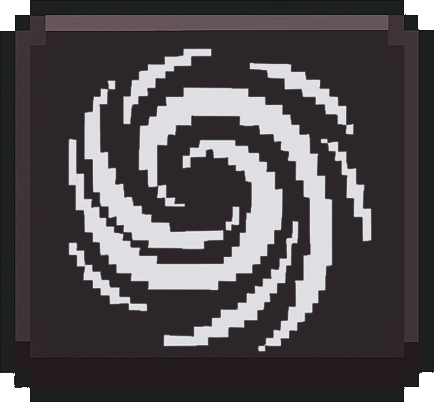
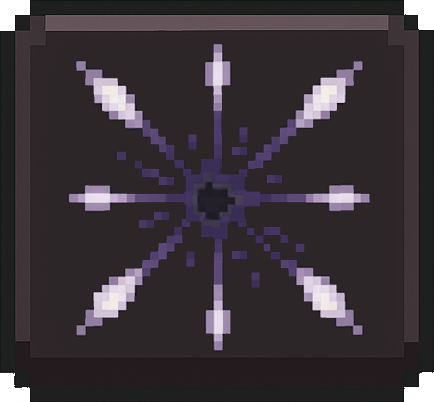
Chore: 기억 스킬 아이콘 변경, 넉백 수치 조절
기억 스킬 아이콘 변경
근접 공격 넉백 수치 조절

Changed region(s): [[0.1498, 0.0896, 0.8687, 0.8955]]

diff --git a/Assets/01.Scripts/Character/Player/Player.cs b/Assets/01.Scripts/Character/Player/Player.cs
@@ -128,16 +128,16 @@ public class Player : MonoBehaviour, IDamagable
     {
         float dt = Time.deltaTime;
 
-        float currentHP = playerstatus.stats[StatType.CurrentHP];
-        float maxHP = playerstatus.stats[StatType.MaxHP];
+        //float currentHP = playerstatus.stats[StatType.CurrentHP];
+        //float maxHP = playerstatus.stats[StatType.MaxHP];
 
         float currentMP = playerstatus.stats[StatType.CurrentMP];
         float maxMP = playerstatus.stats[StatType.MaxMP];
 
-        currentHP = Mathf.Min(currentHP + hpRegenRate * dt, maxHP);
+        //currentHP = Mathf.Min(currentHP + hpRegenRate * dt, maxHP);
         currentMP = Mathf.Min(currentMP + mpRegenRate * dt, maxMP);
 
-        playerstatus.SetStat(StatType.CurrentHP, currentHP);
+        //playerstatus.SetStat(StatType.CurrentHP, currentHP);
         playerstatus.SetStat(StatType.CurrentMP, currentMP);
     }
 }

diff --git a/Assets/01.Scripts/Weapon/Controller/ComboAttack.cs b/Assets/01.Scripts/Weapon/Controller/ComboAttack.cs
@@ -261,7 +261,7 @@ public class ComboAttack : MonoBehaviour
                     DamageTextManager.Instance.ShowDamage(textPosition, (int)damage);
                     CameraShake.Instance.Shake(0.2f, 0.4f);
                     Vector2 attackerPos = (Vector2)transform.position + Vector2.up * 0.5f;
-                    KnockbackUtil.ApplyKnockback(target, attackerPos, 5f);
+                    KnockbackUtil.ApplyKnockback(target, attackerPos, 2f);
                 }
 
                 var laber = target.GetComponentInChildren<LaberDamagerble>();
